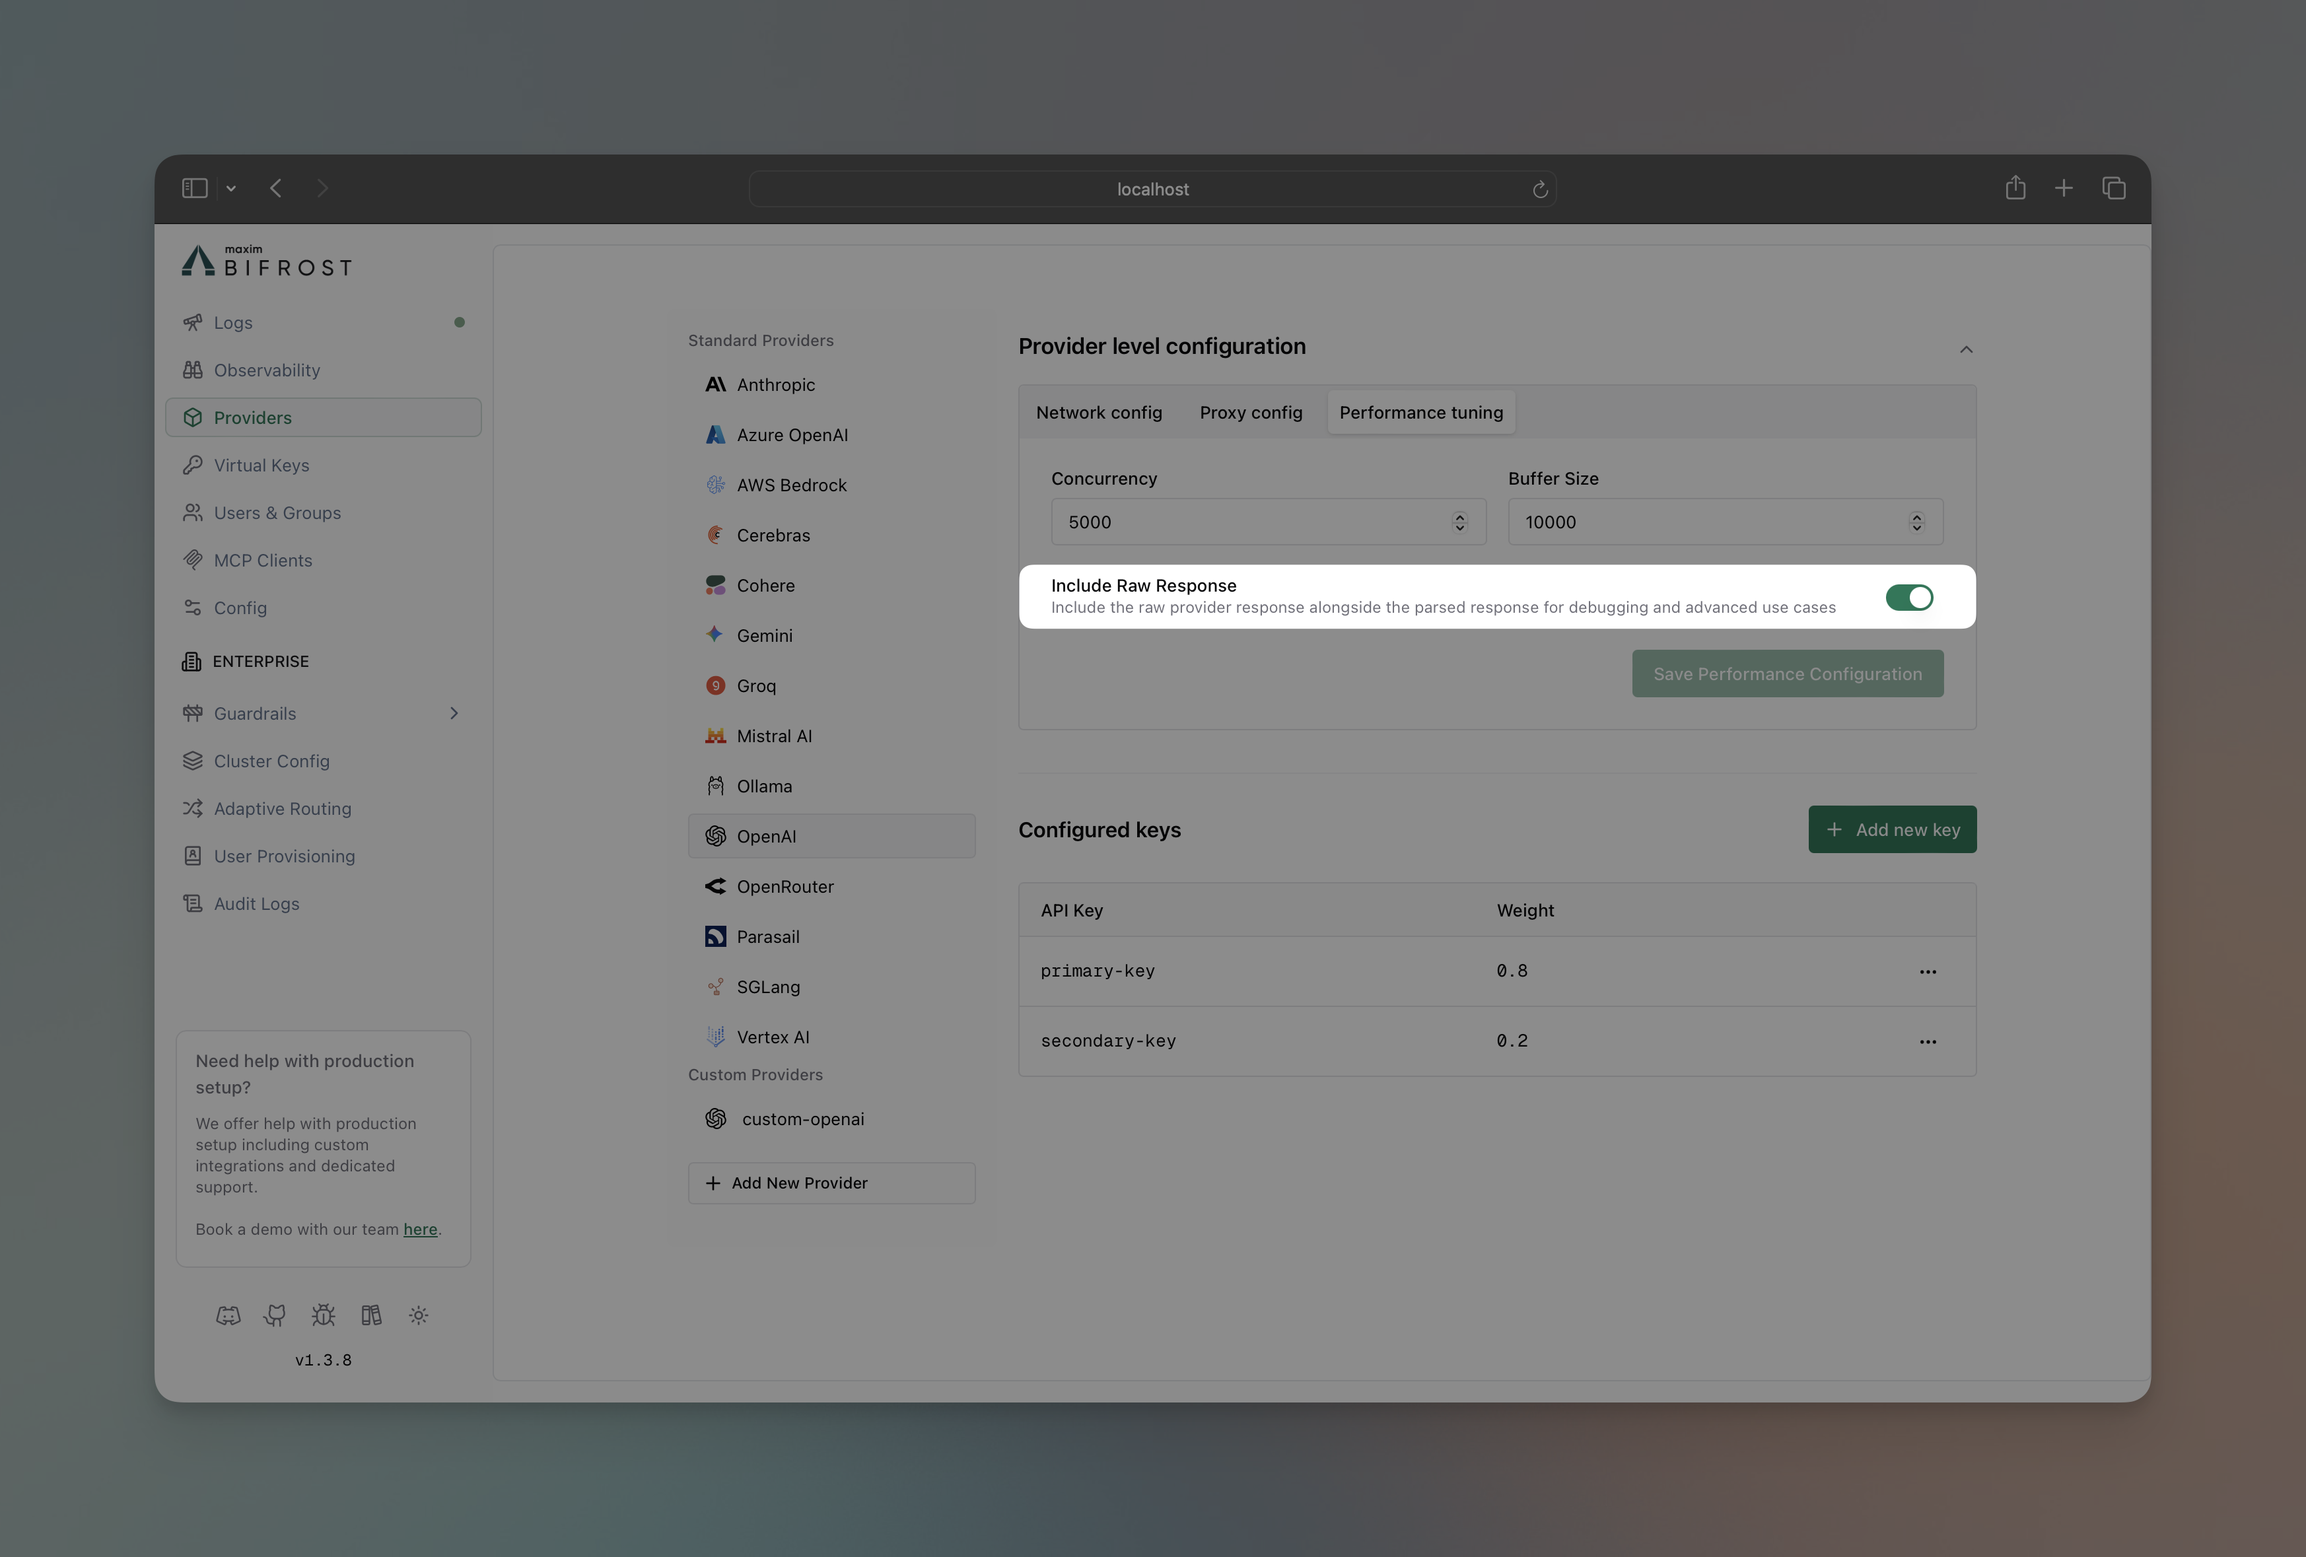
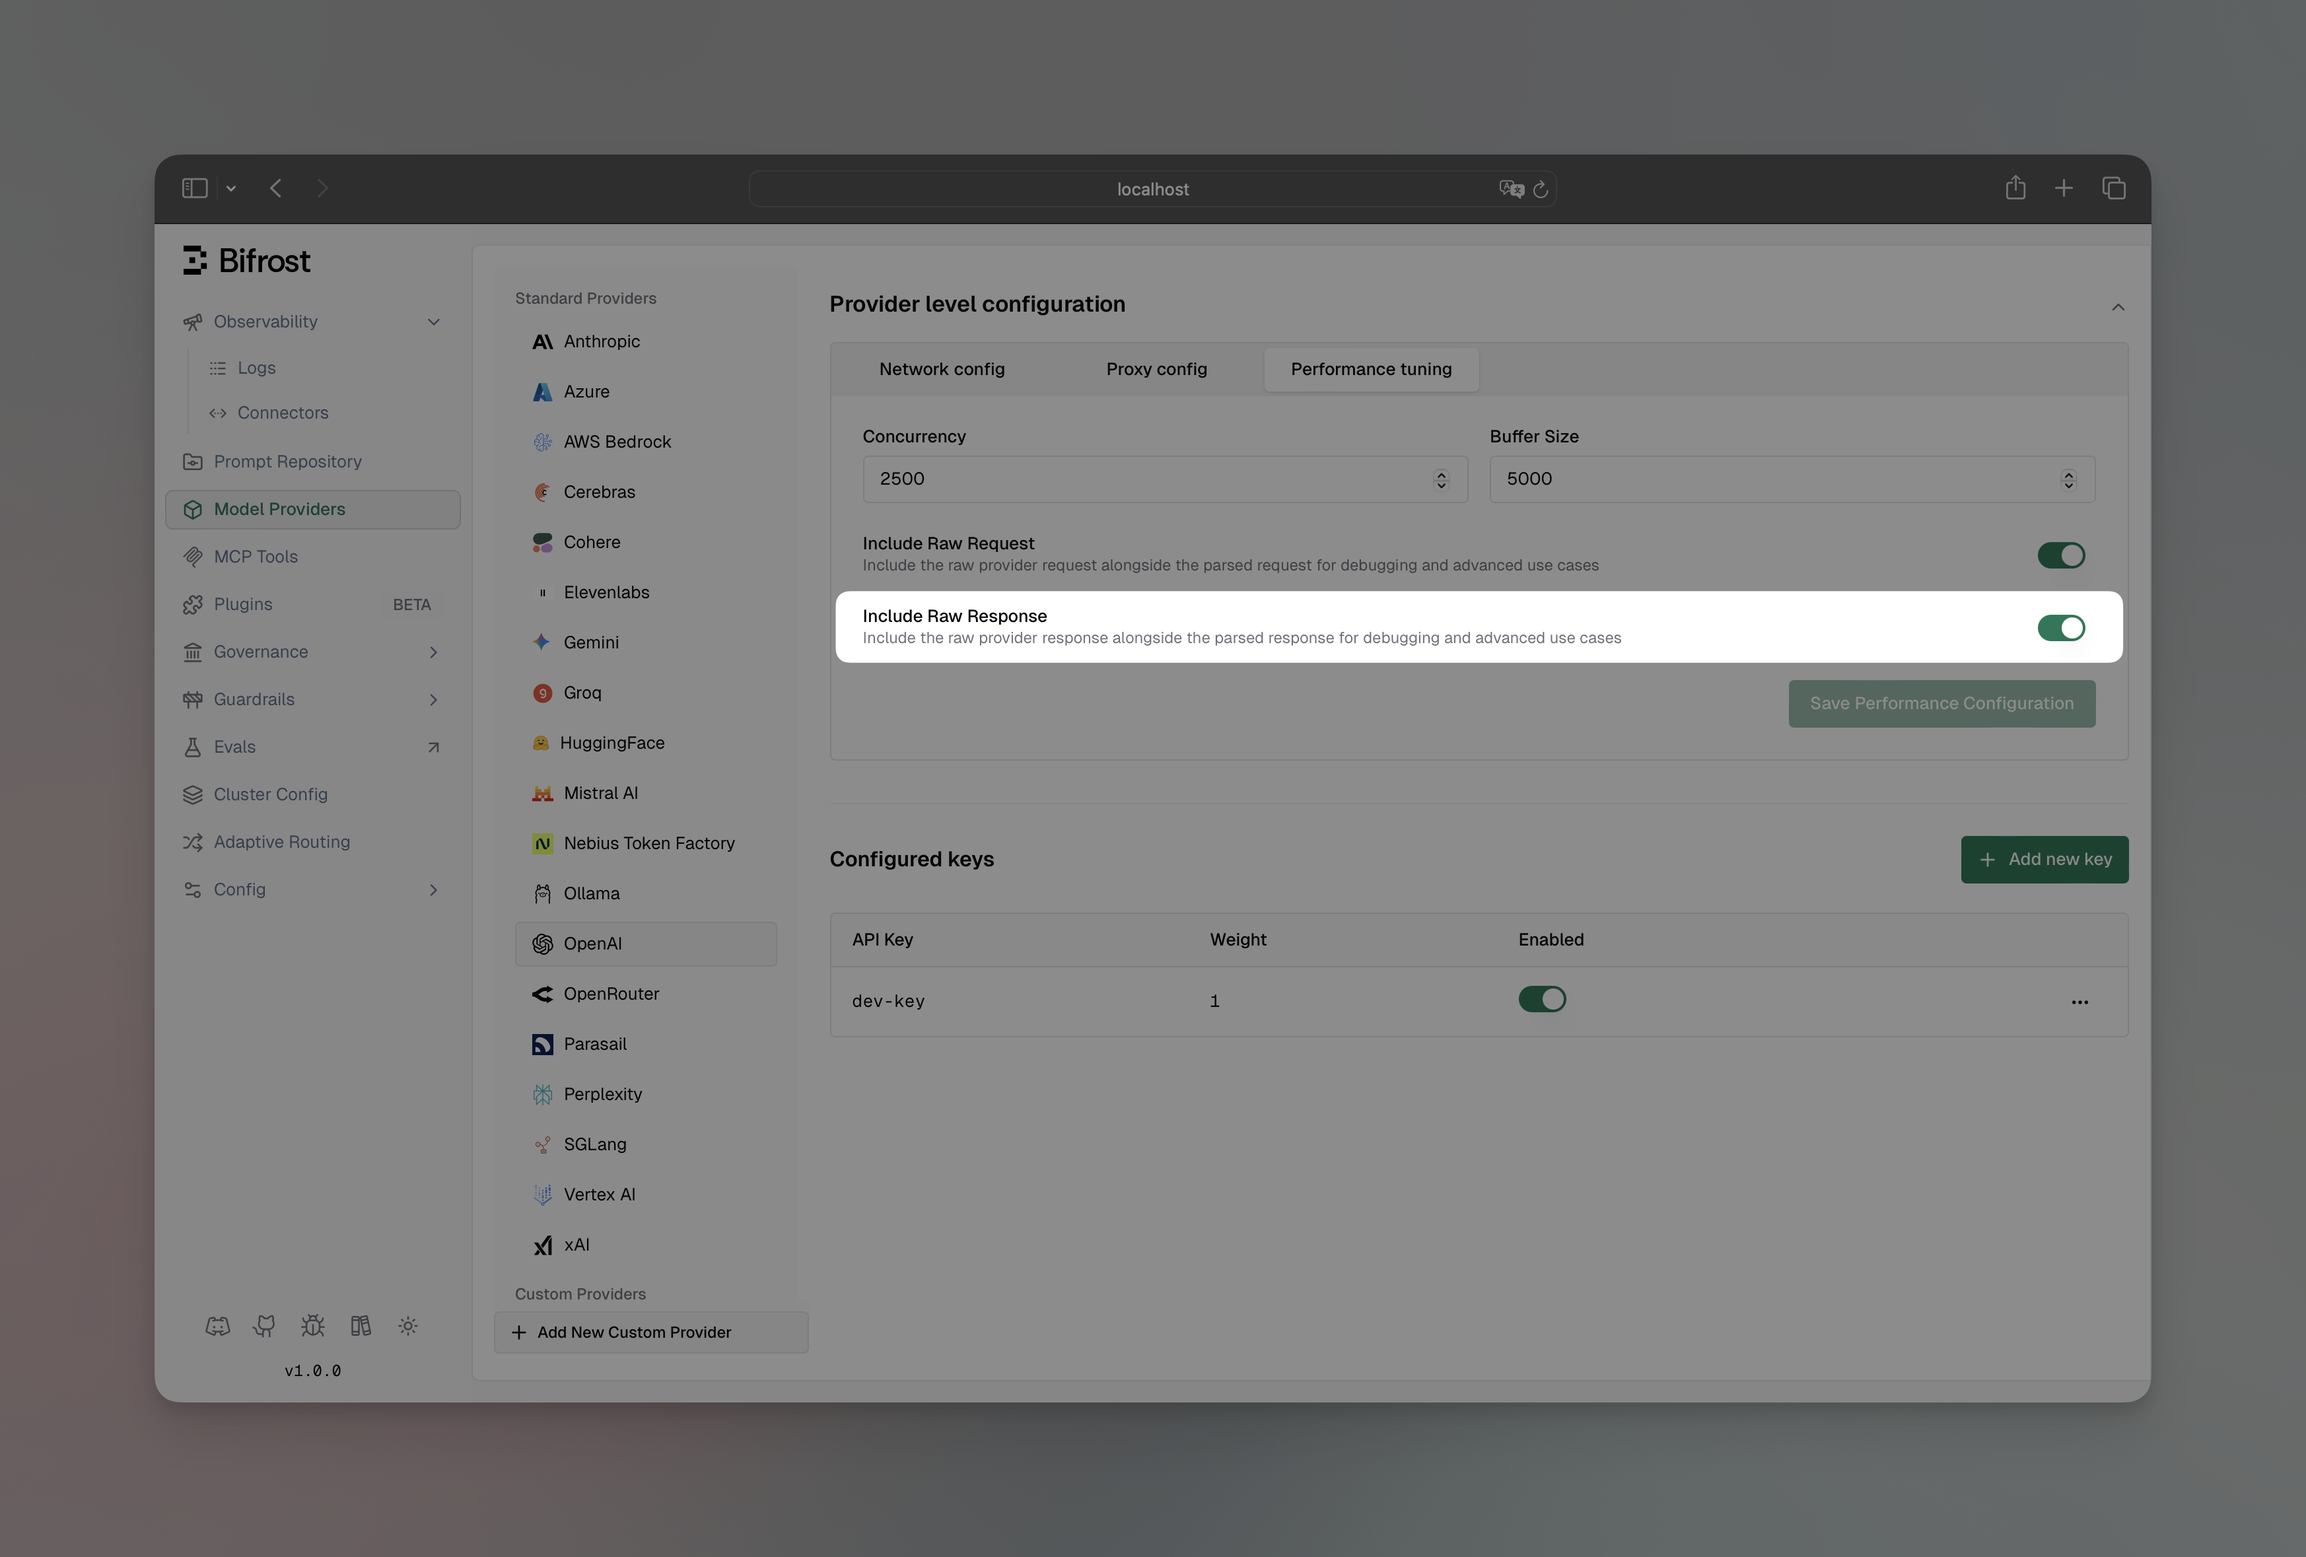
docs: update provider configuration documentation and UI references (#1263)
## Summary

Updated documentation for provider configuration with improved UI screenshots and clearer instructions. Fixed auth middleware initialization to handle missing config store gracefully.

## Changes

- Updated documentation links in README.md to point to the correct development setup guide
- Refreshed UI screenshots to match the latest interface design
- Reorganized provider configuration documentation with clearer navigation paths
- Added new sections for custom base URL and raw request configuration
- Improved explanation of header management (static vs dynamic headers)
- Fixed auth middleware initialization to prevent crashes when config store is missing

## Type of change

- [x] Bug fix
- [ ] Feature
- [ ] Refactor
- [x] Documentation
- [ ] Chore/CI

## Affected areas

- [x] Core (Go)
- [x] Transports (HTTP)
- [ ] Providers/Integrations
- [ ] Plugins
- [ ] UI (Next.js)
- [x] Docs

## How to test

Verify the documentation updates match the current UI:

```sh
# Start Bifrost
go run cmd/bifrost/main.go

# Navigate to http://localhost:8080 and compare UI with documentation
```

Test the auth middleware fix:

```sh
# Run Bifrost without a config store
go run cmd/bifrost/main.go --no-config-store

# Verify it starts without crashing
```

## Screenshots/Recordings

Updated screenshots are included in the PR for the provider configuration UI.

## Breaking changes

- [ ] Yes
- [x] No

## Related issues

Fixes initialization error when running without a config store.
[…]

diff --git a/transports/bifrost-http/server/server.go b/transports/bifrost-http/server/server.go
@@ -1187,12 +1187,16 @@ func (s *BifrostHTTPServer) Bootstrap(ctx context.Context) error {
 	commonMiddlewares := s.PrepareCommonMiddlewares()
 	apiMiddlewares := commonMiddlewares
 	inferenceMiddlewares := commonMiddlewares
-	s.AuthMiddleware, err = handlers.InitAuthMiddleware(s.Config.ConfigStore)
-	if err != nil {
-		return fmt.Errorf("failed to initialize auth middleware: %v", err)
-	}
-	if ctx.Value("isEnterprise") == nil {
-		apiMiddlewares = append(apiMiddlewares, s.AuthMiddleware.Middleware())
+	if s.Config.ConfigStore == nil {
+		logger.Error("auth middleware requires config store, skipping auth middleware initialization")
+	} else {
+		s.AuthMiddleware, err = handlers.InitAuthMiddleware(s.Config.ConfigStore)
+		if err != nil {
+			return fmt.Errorf("failed to initialize auth middleware: %v", err)
+		}
+		if ctx.Value("isEnterprise") == nil {
+			apiMiddlewares = append(apiMiddlewares, s.AuthMiddleware.Middleware())
+		}
 	}
 	// Register routes
 	err = s.RegisterAPIRoutes(s.ctx, s, apiMiddlewares...)
@@ -1200,7 +1204,7 @@ func (s *BifrostHTTPServer) Bootstrap(ctx context.Context) error {
 		return fmt.Errorf("failed to initialize routes: %v", err)
 	}
 	// Registering inference routes
-	if ctx.Value("isEnterprise") == nil {
+	if ctx.Value("isEnterprise") == nil && s.AuthMiddleware != nil {
 		inferenceMiddlewares = append(inferenceMiddlewares, s.AuthMiddleware.Middleware())
 	}
 	// Registering inference middlewares

diff --git a/README.md b/README.md
@@ -255,7 +255,7 @@ We welcome contributions of all kinds! See our [Contributing Guide](https://docs
 - How to submit pull requests
 - Building and testing locally
 
-For development requirements and build instructions, see our [Development Setup Guide](https://docs.getbifrost.ai/contributing/building-a-plugins).
+For development requirements and build instructions, see our [Development Setup Guide](https://docs.getbifrost.ai/contributing/setting-up-repo#development-environment-setup).
 
 ---
 
